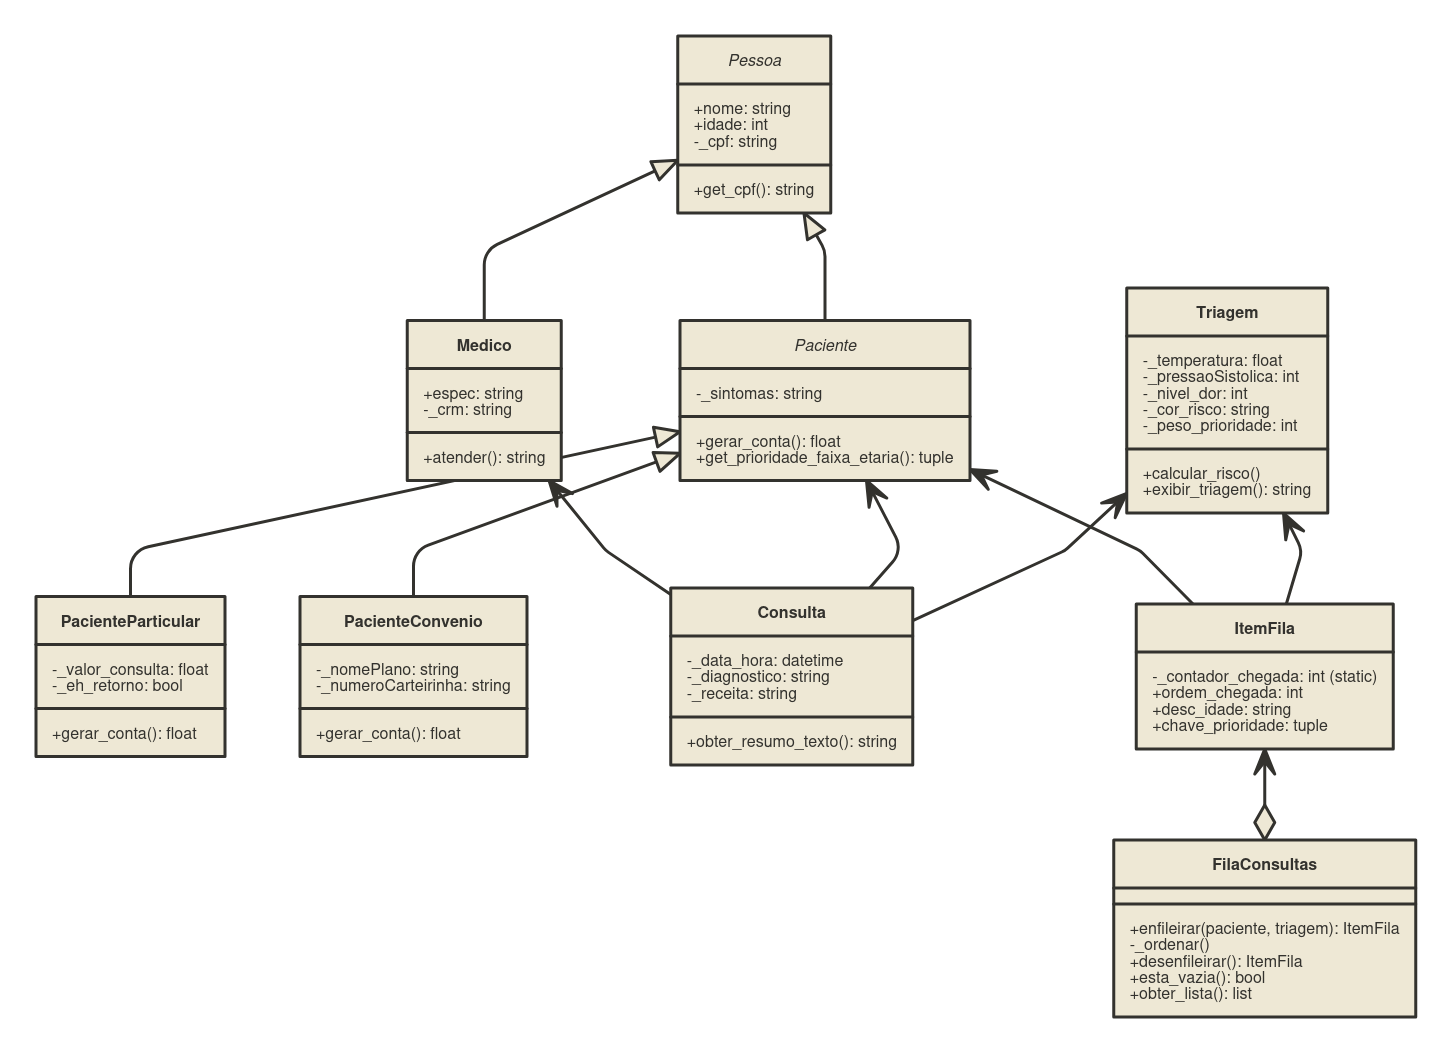
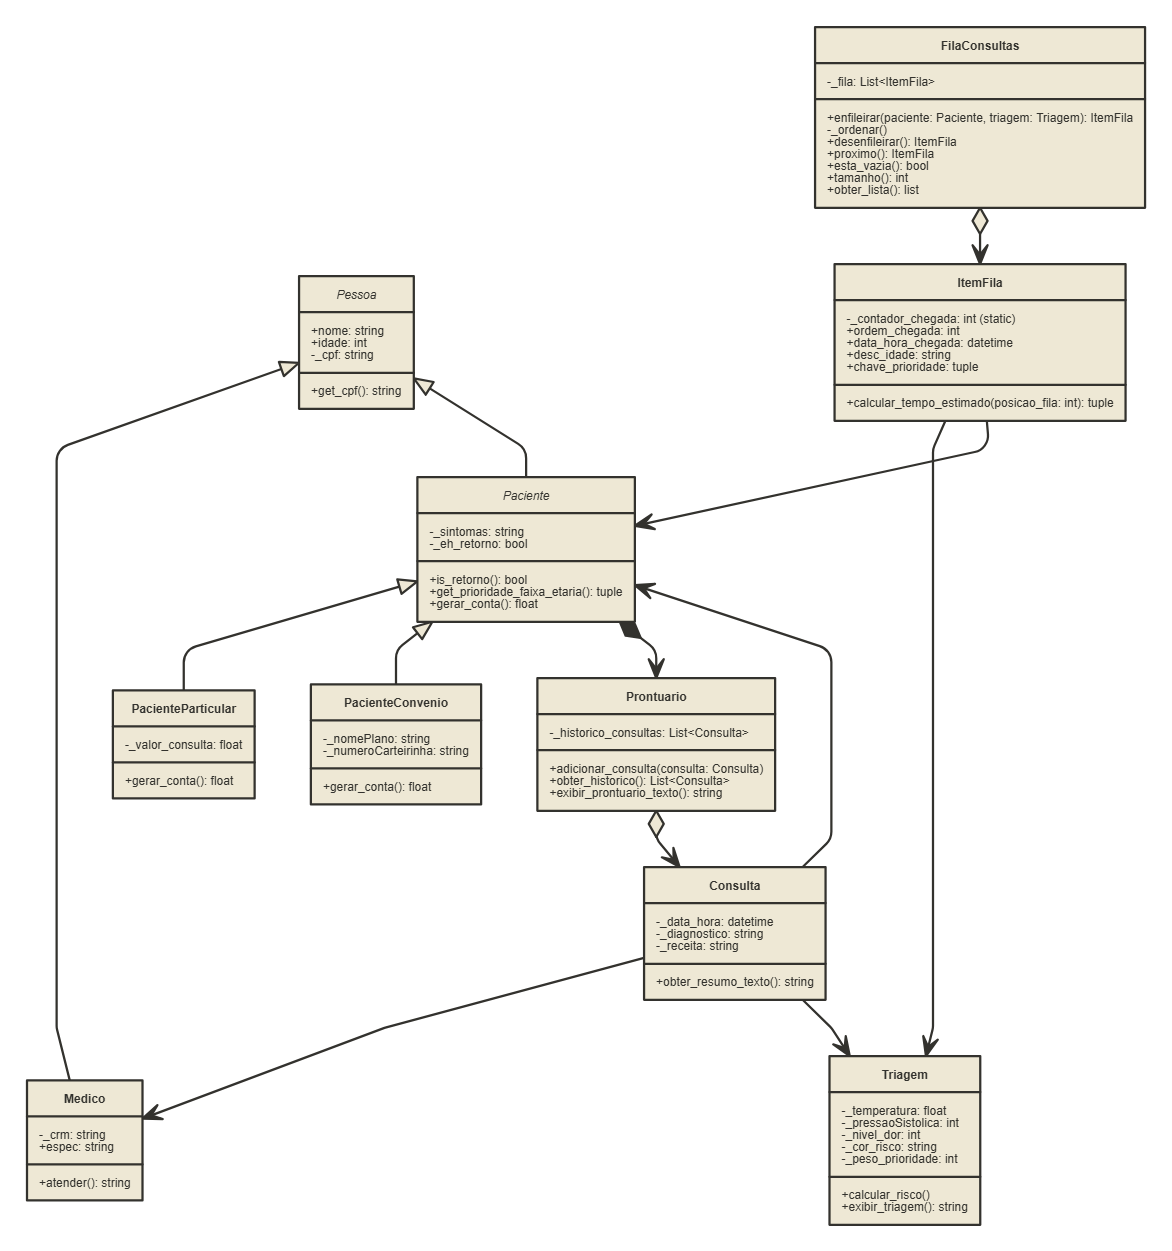
atualização imagem e código UML

diff --git a/README.md b/README.md
@@ -2,7 +2,7 @@
 
 Trabalho prático desenvolvido para a disciplina de **Programação Orientada a Objetos (POO)** dos cursos de **Ciência da Computação** e **Sistemas de Informação** da **Universidade Católica de Santos (UniSantos)**.
 
-## 📌 Sobre o Projeto
+##  Sobre o Projeto
 
 O objetivo deste projeto é modelar e implementar um fluxo simplificado de atendimento hospitalar com fila de prioridades, baseado no Protocolo de Manchester (gravidade clínica) combinado com a legislação de prioridade etária (Estatuto do Idoso).
 
@@ -12,7 +12,7 @@ O sistema conta com:
 * Chamada de pacientes para consulta médica com geração de resumo clínico e financeiro.
 * Interface gráfica intuitiva construída com a biblioteca padrão `tkinter`.
 
-## 🏛 Aplicação dos Pilares de POO
+##  Aplicação dos Pilares de POO
 
 O sistema foi concebido a partir de um diagrama de classes UML estrito, cobrindo os conceitos centrais de POO:
 
@@ -33,7 +33,7 @@ O sistema foi concebido a partir de um diagrama de classes UML estrito, cobrindo
    * `Consulta` associa instâncias de `Medico`, `Paciente` e `Triagem`.
    * `FilaConsultas` agrega múltiplos objetos do tipo `ItemFila`.
 
-## ⚖ Critérios de Prioridade da Fila
+##  Critérios de Prioridade da Fila
 
 A ordenação da fila não é estritamente por ordem de chegada (FIFO), mas sim por uma tupla de ordenação `(peso_risco, peso_idade, ordem_chegada)`:
 
@@ -51,7 +51,7 @@ A ordenação da fila não é estritamente por ordem de chegada (FIFO), mas sim 
 3. **Ordem de Chegada (Desempate 2):**
    * Mantém a justiça cronológica em caso de mesmo risco e mesma prioridade de idade.
 
-## 📁 Estrutura de Arquivos
+##  Estrutura de Arquivos
 
 ```
 ├── classes.py      # Modelagem das classes, regras de negócio e fila
